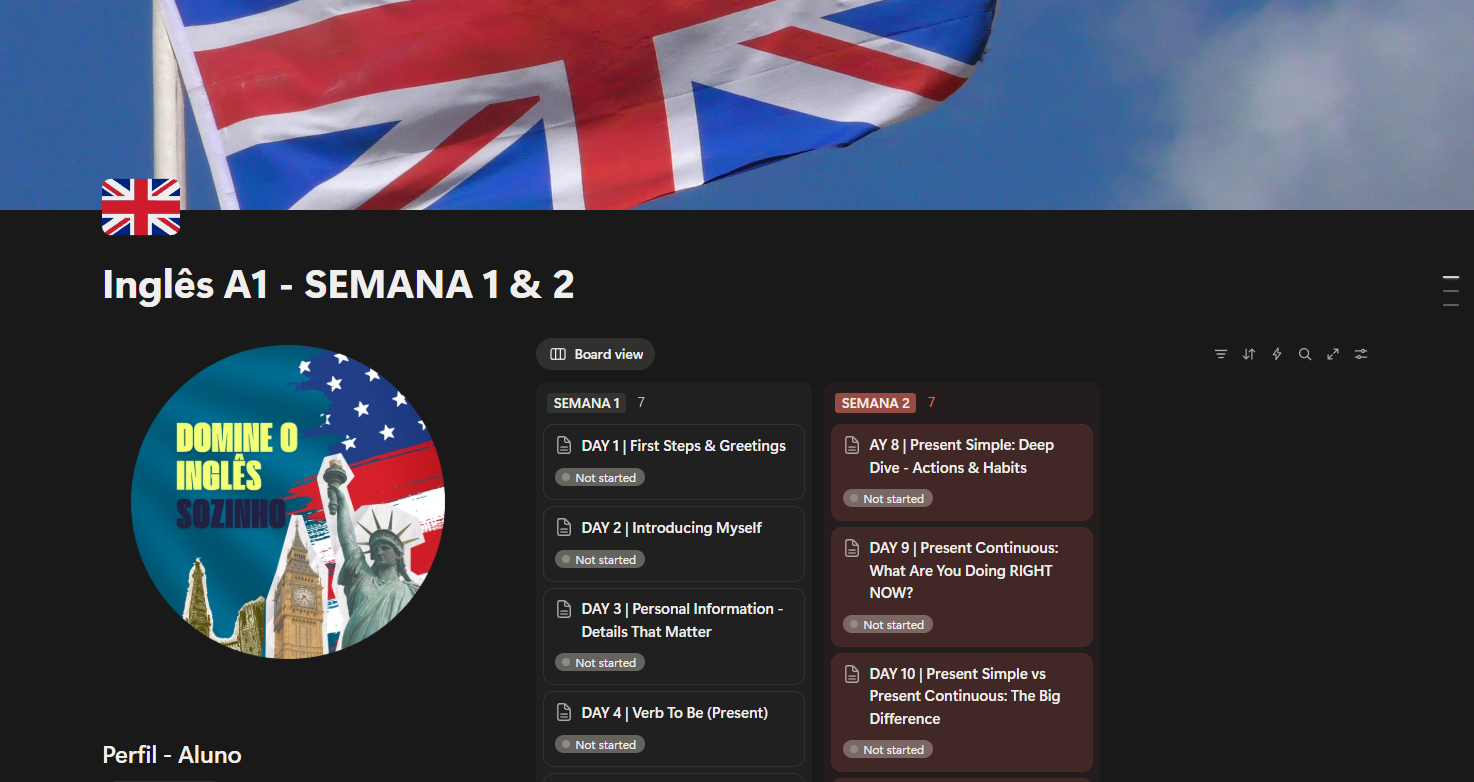
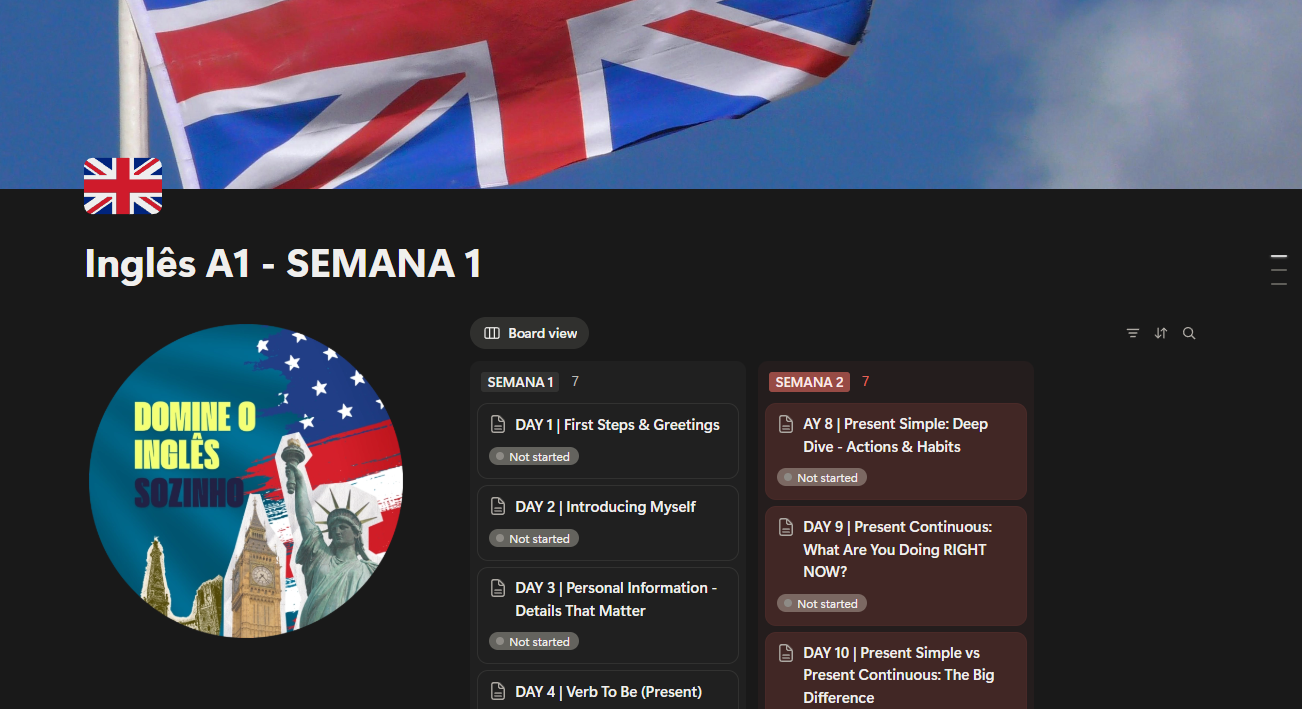
v4

diff --git a/index.html b/index.html
@@ -164,7 +164,7 @@ height="0" width="0" style="display:none;visibility:hidden"></iframe></noscript>
                         <span class="mockup-dot"></span>
                         <span class="mockup-title">Sistema Autodidata · Notion</span>
                     </div>
-                    <img src="imagens_notion/img.png" alt="Sistema no Notion" class="mockup-img">
+                    <img src="imagens_notion/img1.png" alt="Sistema no Notion" class="mockup-img">
                 </div>
             </div>
         </div>